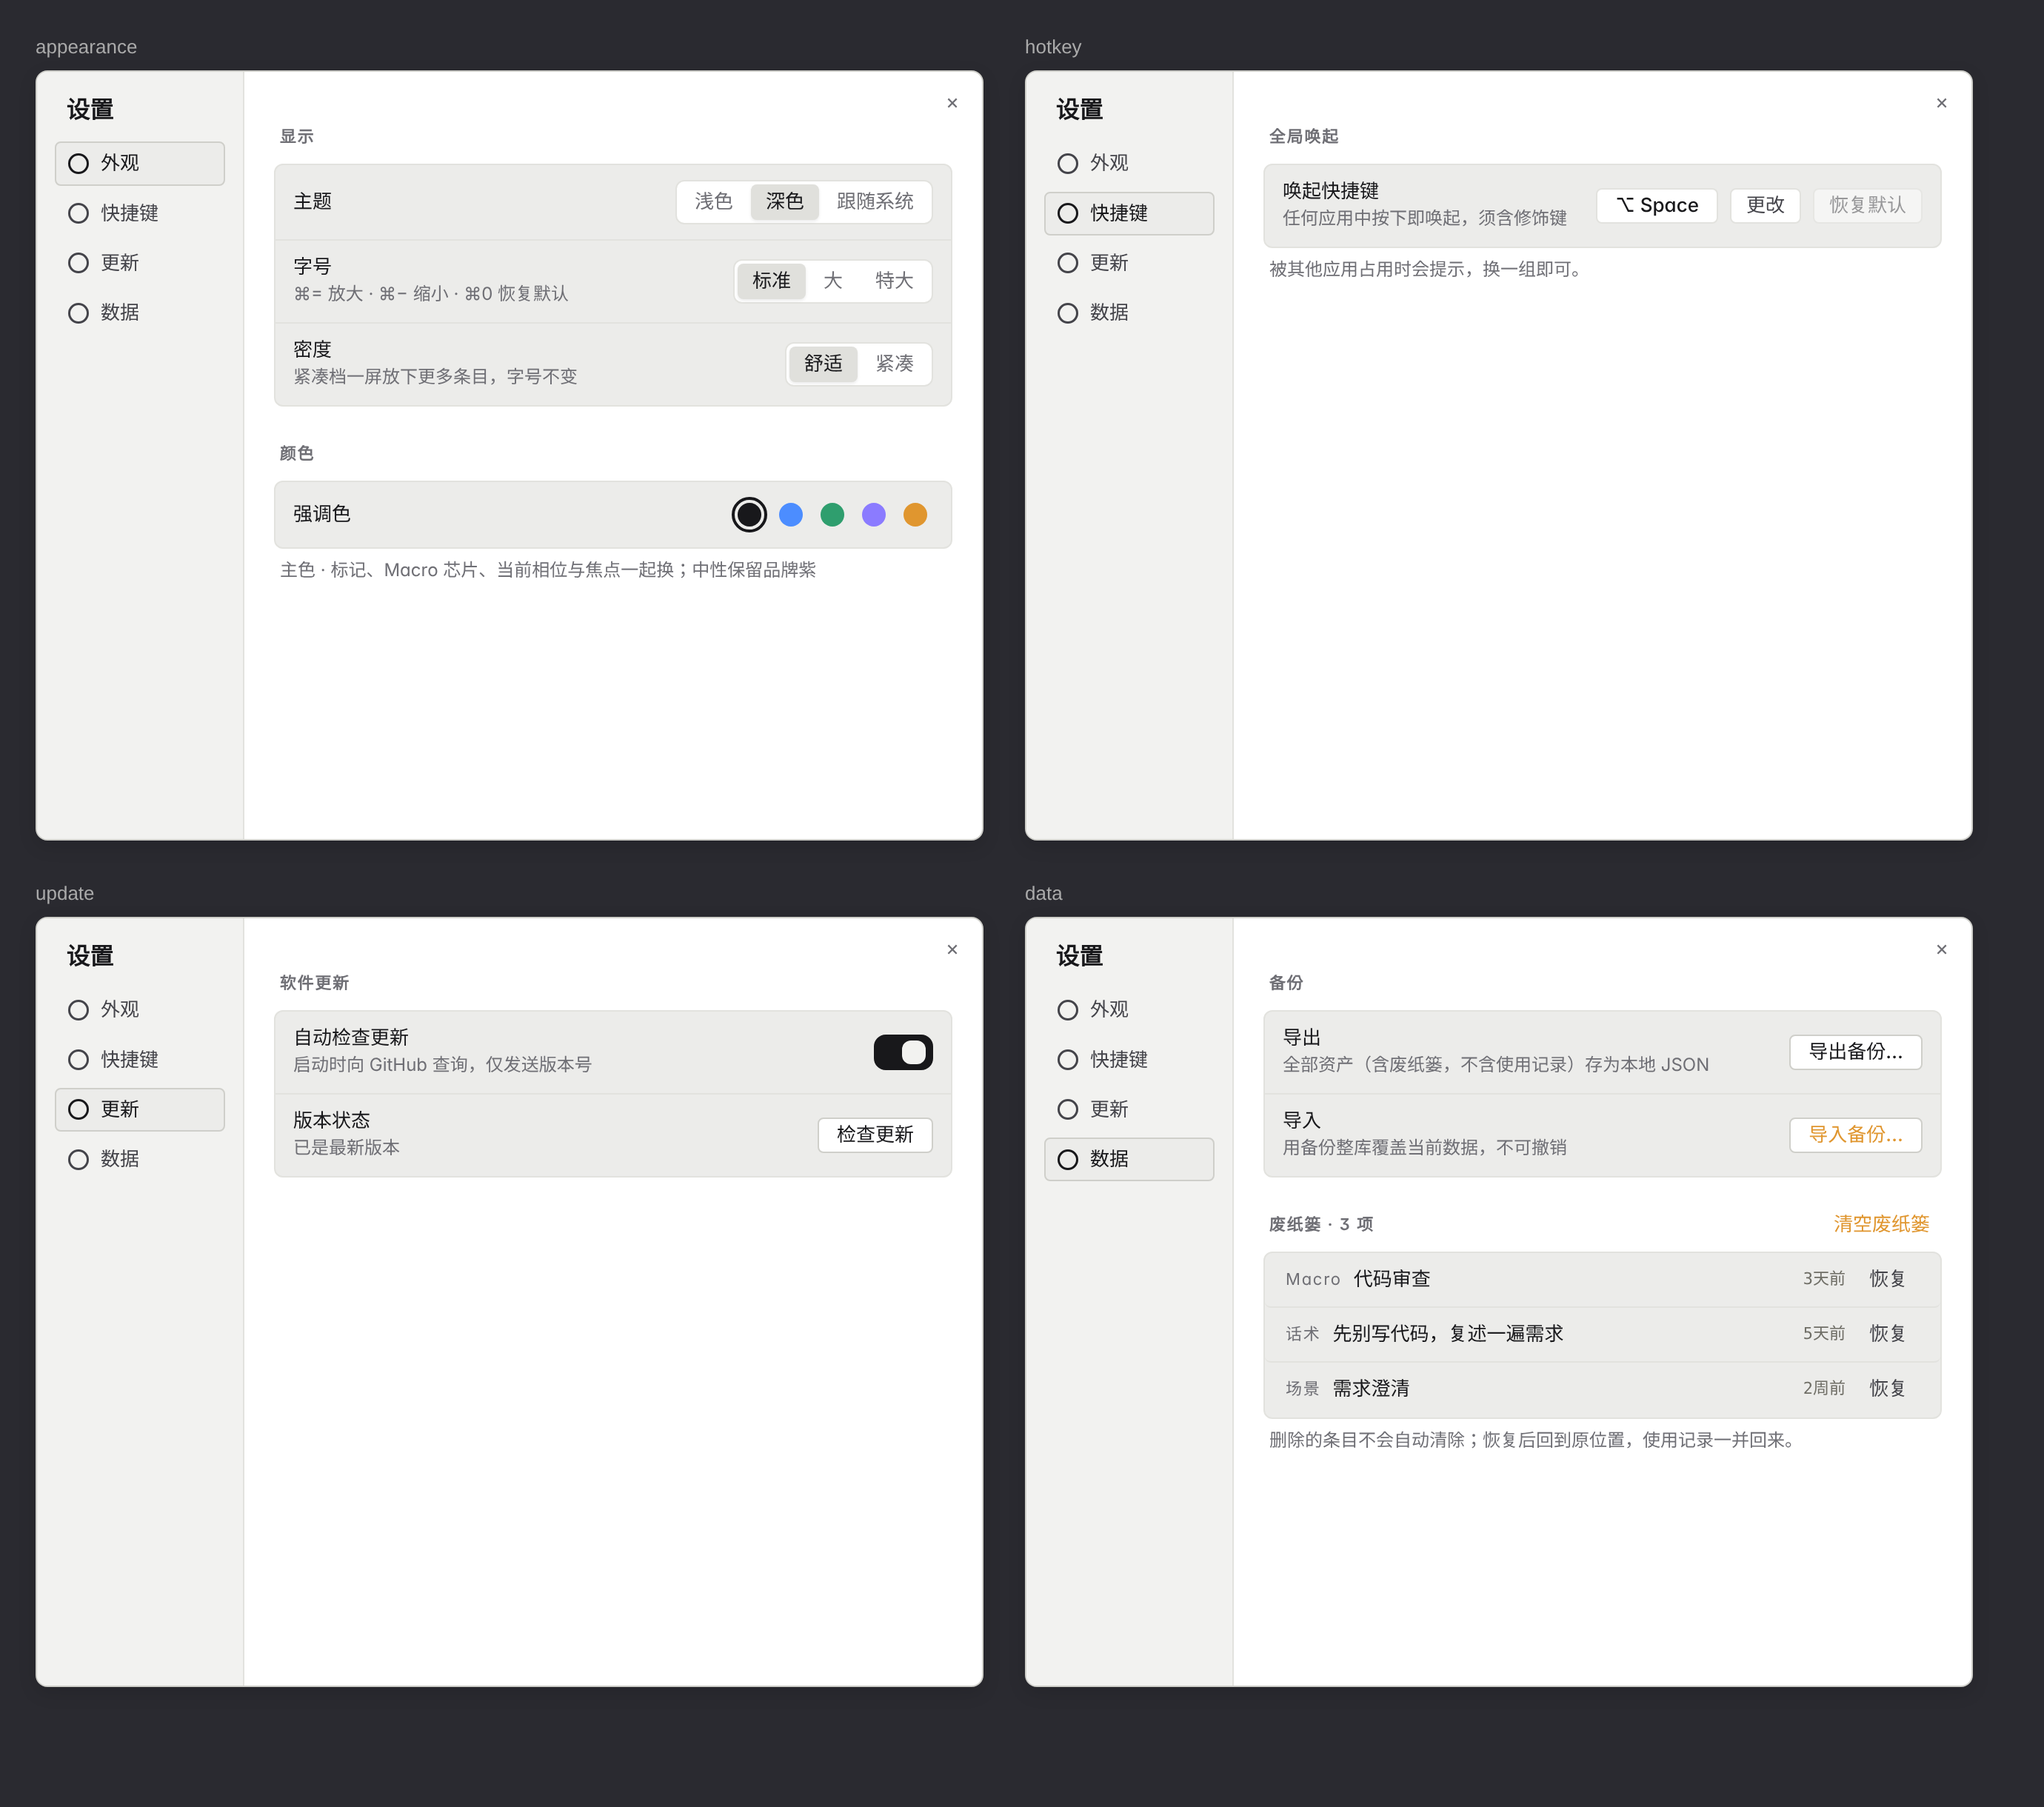
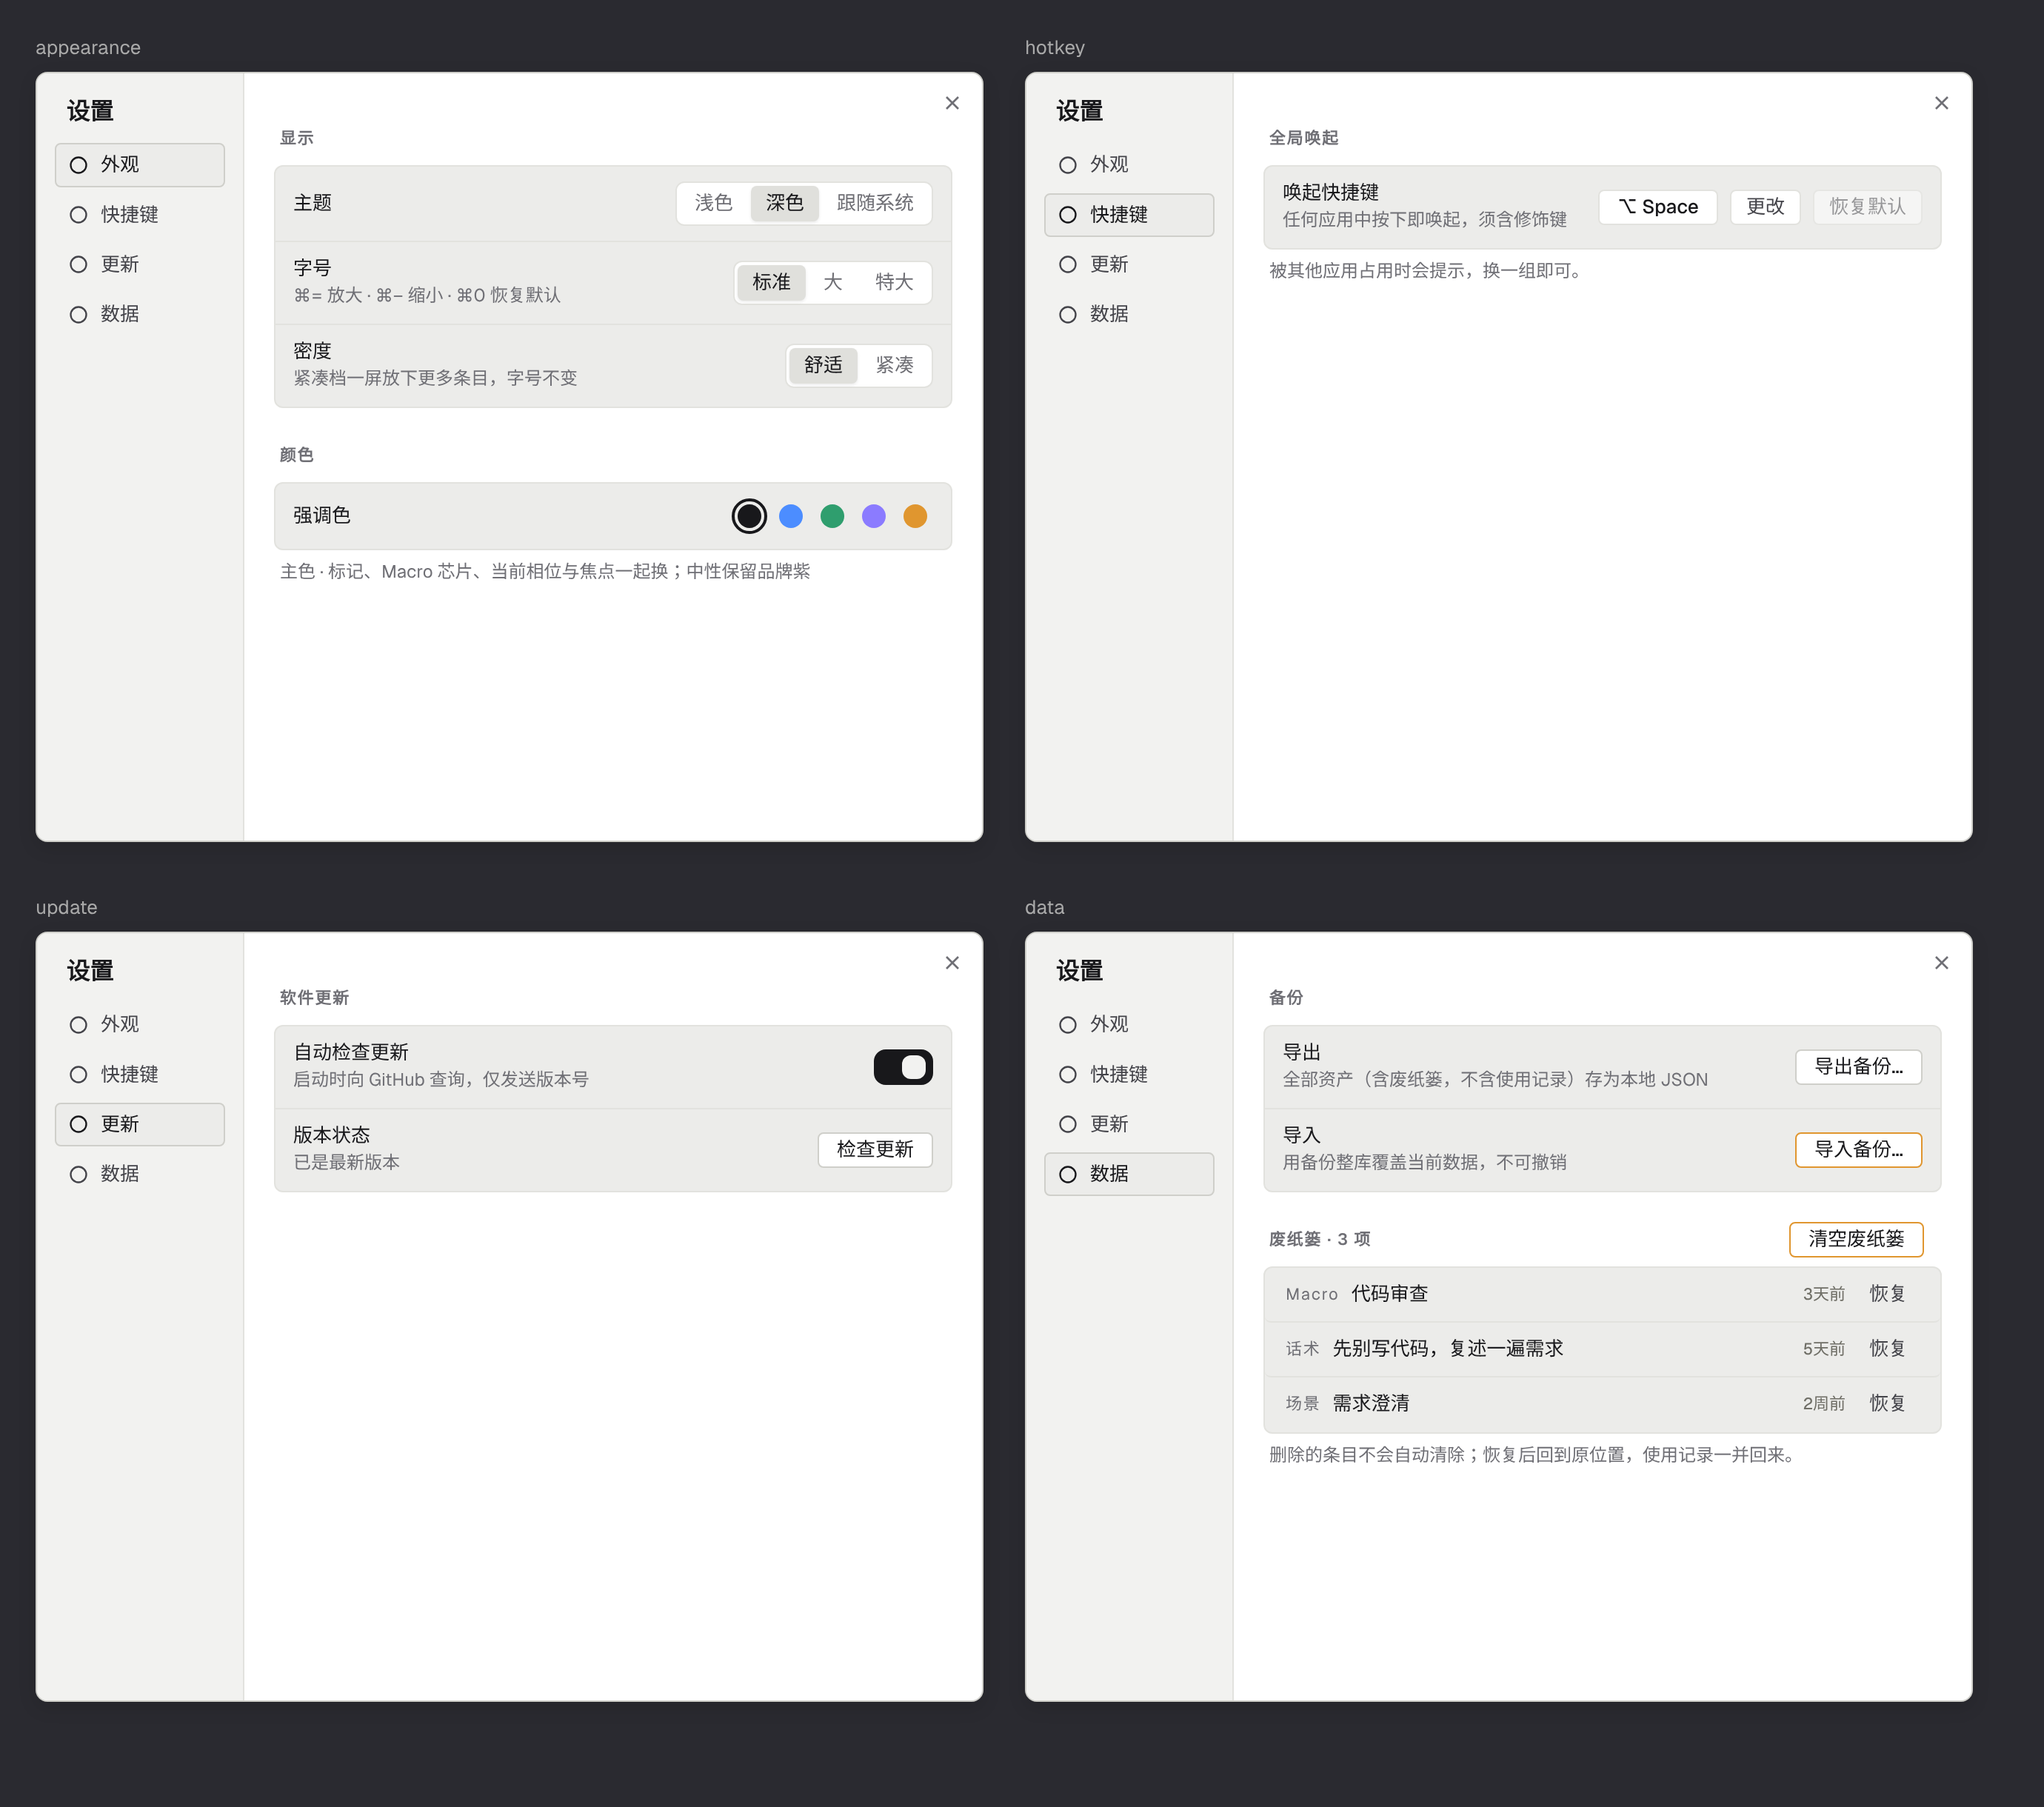
fix(settings): mark destructive actions with an amber border, not amber text (#29)
Amber text on the light theme's white surface only reaches ~2.5:1. Follow
Toast .error instead: keep the label at --fg-1 and carry the warning on an
amber border. 导入备份… keeps its frame with the border recoloured (and kept
amber on hover); 清空废纸篓 becomes the same small framed button by composing
.actionBtn + .actionDanger, inset so its right edge lines up with the card's
buttons. No new colour token. Screenshots rebuilt from the real CSS.

Claude-Session: https://claude.ai/code/session_01NAChtZX6rWB3XJEK9qFLX6

diff --git a/src/components/TrashSection.module.css b/src/components/TrashSection.module.css
@@ -21,33 +21,15 @@
   font-variant-numeric: tabular-nums;
 }
 
-/* The one irreversible action left in the app: amber text, no frame — the
-   same amber-as-signal convention as 导入备份… (issue #29 V5). */
+/* The one irreversible action left in the app: a small framed button with an
+   amber border and neutral text — the same shape and warning convention as
+   导入备份… (SettingsModal .actionDanger; reasoning there and in Toast .error).
+   Composed rather than restyled so hover / focus / disabled stay in step. */
 .purge {
-  composes: ph-action from "../styles/typography.module.css";
-  height: var(--h-chip);
-  padding: 0 var(--s-1);
-  border: 0;
-  border-radius: var(--r-3);
-  background: transparent;
-  color: var(--accent-swatch-amber);
-  cursor: pointer;
-  appearance: none;
-  transition: opacity var(--d-fast) var(--ease);
-}
-
-.purge:hover:not(:disabled) {
-  text-decoration: underline;
-}
-
-.purge:disabled {
-  opacity: var(--op-dim);
-  cursor: not-allowed;
-}
-
-.purge:focus-visible {
-  outline: var(--border-thick) solid var(--accent);
-  outline-offset: 0;
+  composes: actionBtn actionDanger from "./SettingsModal.module.css";
+  /* The group head is inset by --s-1, the card rows by --s-3: pull the
+     framed button in so its right edge lines up with 导入备份… above. */
+  margin-right: calc(var(--s-3) - var(--s-1));
 }
 
 .card {

diff --git a/src/components/SettingsModal.module.css b/src/components/SettingsModal.module.css
@@ -485,10 +485,22 @@
   border-color: var(--accent);
 }
 
-/* Destructive action (导入备份…): amber text, same shape as its neutral
-   neighbour. Amber, not red: the palette has no danger token, and
-   amber-as-signal is the established convention (HotkeyBanner, Toast .error,
-   HotkeyRecorder .error). No new colour token (issue #29 V5). */
+/* Destructive action (导入备份…, and 清空废纸篓 via TrashSection .purge):
+   same shape as its neutral neighbour, warning carried by an amber border.
+   Text stays --fg-1, as in Toast .error: amber-on-white text only clears
+   ~2.5:1 in the light theme, far below the design-spec §2.3 body-text bar.
+   The label carries the meaning at full contrast; the amber frame is a
+   supplementary cue, not the only one (on the light card it measures
+   ~2.1–2.5:1, so it must never become the sole signal). Amber, not red: the
+   palette has no danger token (HotkeyBanner, Toast .error). No new colour
+   token (issue #29 V5). */
 .actionDanger {
-  color: var(--accent-swatch-amber);
+  border-color: var(--accent-swatch-amber);
+  color: var(--fg-1);
+}
+
+/* Keep the amber frame on hover: the generic .actionBtn hover would swap it
+   for --border-3 and drop the warning exactly when the pointer is on it. */
+.actionDanger:hover:not(:disabled) {
+  border-color: var(--accent-swatch-amber);
 }

diff --git a/src/components/SettingsModal.tsx b/src/components/SettingsModal.tsx
@@ -655,8 +655,9 @@ export function SettingsModal() {
                       </span>
                     </div>
                     <div className={styles.rowControl}>
-                      {/* Amber text marks the destructive one of the pair
-                          (issue #29 V5); the confirm dialog still gates it. */}
+                      {/* An amber border (neutral text) marks the destructive
+                          one of the pair (issue #29 V5); the confirm dialog
+                          still gates it. */}
                       <button
                         type="button"
                         className={cx(styles.actionBtn, styles.actionDanger)}
